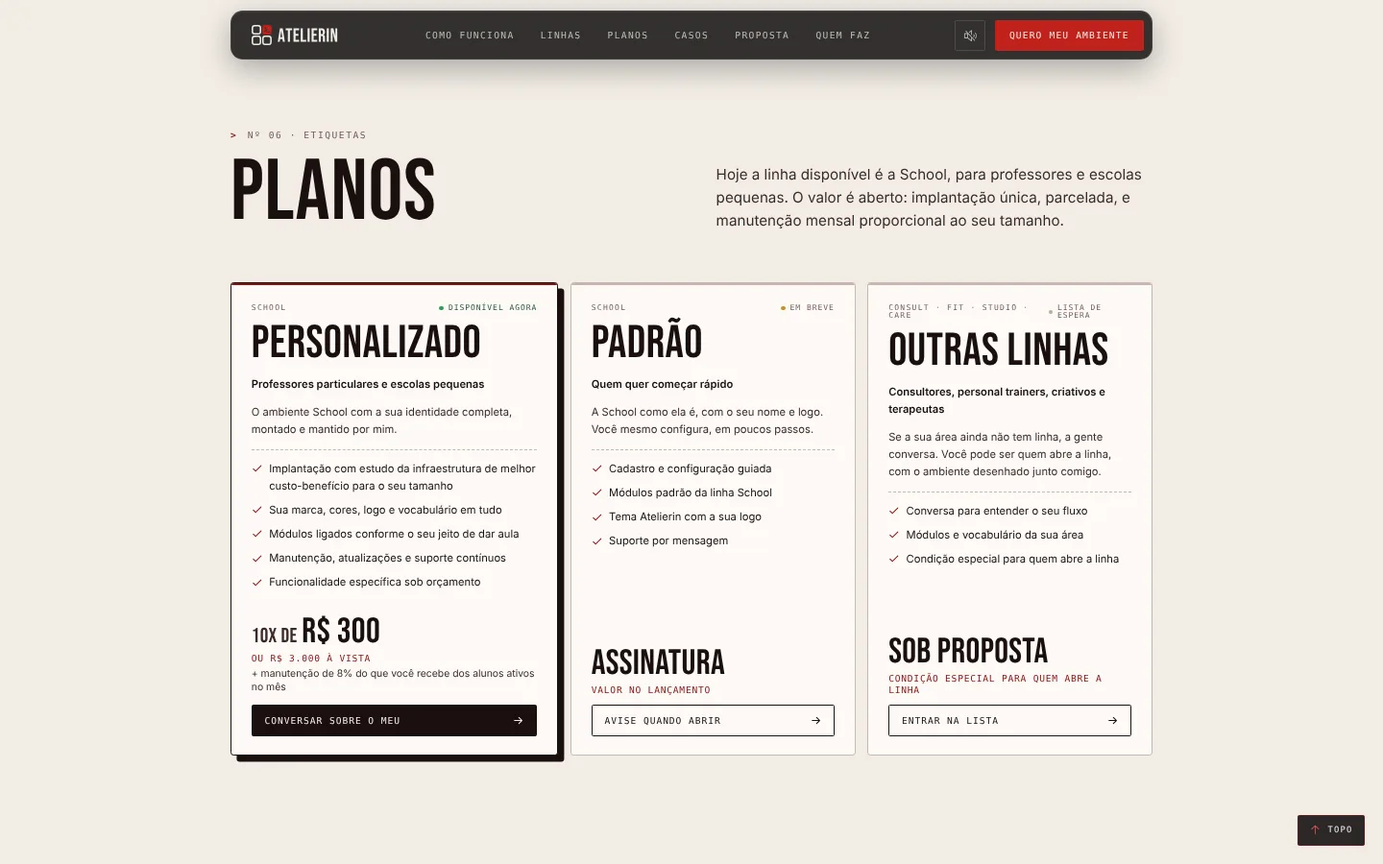
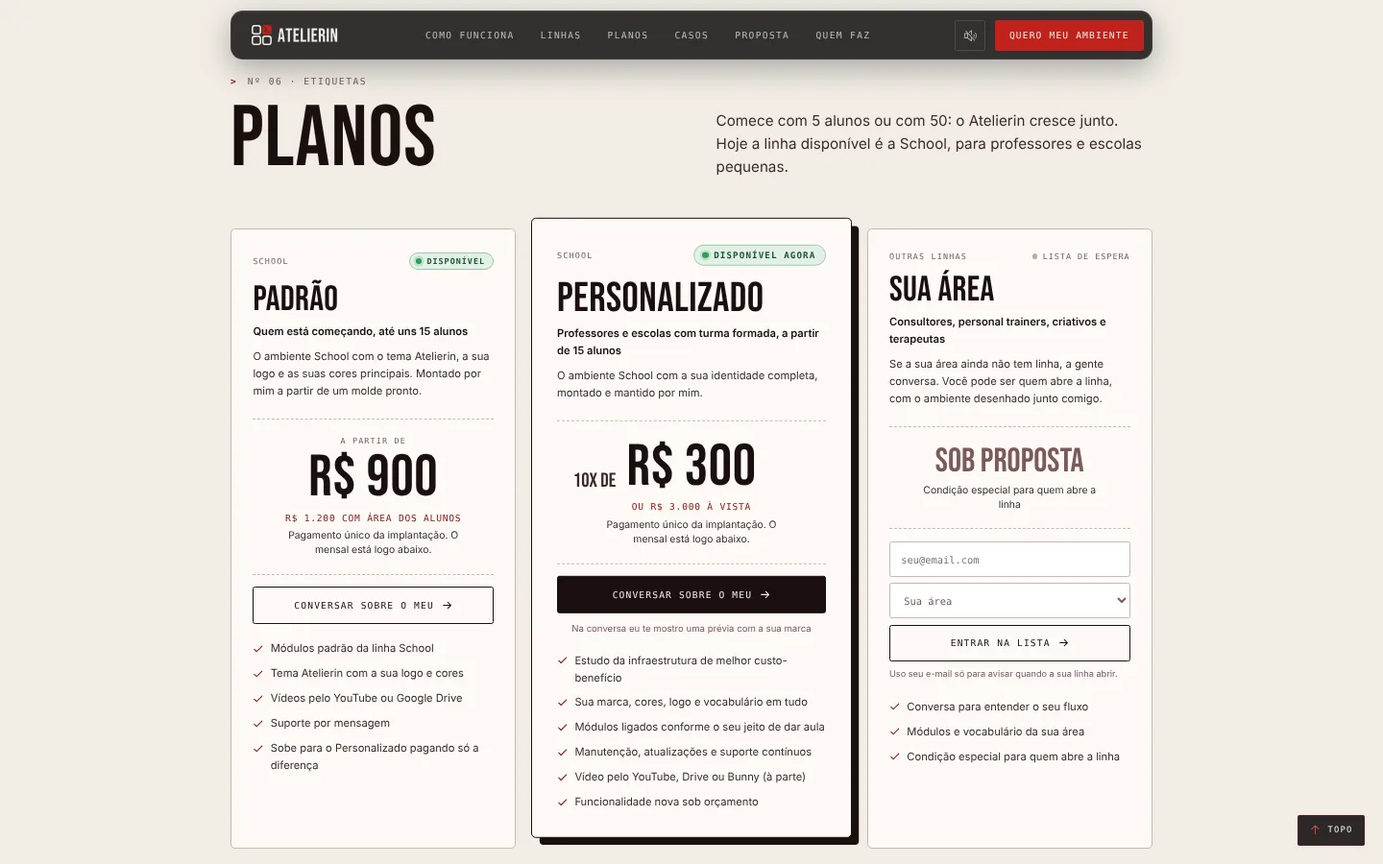
docs: document pricing model, waitlist setup and new screenshots

Changed region(s): [[0.1562, 0.0933, 0.8125, 0.9956]]

diff --git a/docs/decisoes/LP-ADR-005-preco-na-pagina.md b/docs/decisoes/LP-ADR-005-preco-na-pagina.md
@@ -5,15 +5,16 @@
 
 # LP-ADR-005 · Preço na página
 
-![status](https://img.shields.io/badge/status-proposta-080606) ![tipo](https://img.shields.io/badge/tipo-registro%20de%20decisão-1A1414) ![código](https://img.shields.io/badge/código-LP--ADR--005-C0211C)
+![status](https://img.shields.io/badge/status-aceita-080606) ![tipo](https://img.shields.io/badge/tipo-registro%20de%20decisão-1A1414) ![código](https://img.shields.io/badge/código-LP--ADR--005-C0211C)
 
 | Campo | Valor |
 |---|---|
 | Código | `LP-ADR-005` |
 | Data | quarta-feira, 11/11/2026 |
 | Tipo | Registro de decisão |
-| Status | Proposta |
+| Status | Aceita |
 | Decisão de | Samara Silvia |
+| Referências | `PRD-005` · proposta comercial do Maxwell (v1.5, a atualizar na v1.6) |
 | Redigido por | Samara Silvia |
 
 **Sumário**
@@ -28,50 +29,65 @@
 
 ### $ contexto
 
-A primeira versão da landing não mostrava preço ("a conversa vem antes"). Na negociação com o primeiro cliente, ficou claro que o preço ajuda a filtrar quem chega e evita a pergunta repetida. O modelo comercial está no `PRD-005`: **setup de R$ 3.000** (à vista ou 10x de R$ 300), **manutenção de 8%** sobre o que o profissional recebe dos alunos ativos no mês e **infraestrutura** rateada.
+A primeira versão da landing não mostrava preço. Na negociação com o primeiro cliente ficou claro que o preço filtra quem chega e evita a mesma pergunta em toda conversa. Ao colocar o preço, apareceram três problemas:
 
-Em 11/11/2026 o preço entrou na página. Ao revisar, a autora levantou dois conflitos que **ainda não estão resolvidos**, e por isso esta decisão está como **Proposta**.
+1. **"Só a implantação" não cabia no produto.** O Atelierin é um sistema da autora: o cliente usa um ambiente por licença, e o código, a base e o Supabase continuam dela. Sem manutenção, o cliente usaria o sistema sem pagar por ele.
+2. **"Assinatura" contradizia "um ambiente seu".** A palavra soava como "uma conta numa plataforma".
+3. **R$ 3.000 + 8% pesava demais para quem tem poucos alunos.** Com 5 alunos a R$ 250, o cliente gastaria 20% da receita por mês e 40% no primeiro ano.
 
-**Conflito 1: Assinatura × "um ambiente seu".** A proposta abre com "Um ambiente seu, não uma conta numa plataforma". O card **Padrão** fala em "Assinatura". A assinatura seria, na prática, o Atelier.sh como ele é hoje: o mesmo ambiente com o tema Atelierin, logo e nome do cliente, sem implantação sob medida. Lida ao lado da frase da proposta, "assinatura" soa como "uma conta numa plataforma".
+A simulação que levou à decisão:
 
-**Conflito 2: "Só a implantação" não fecha com o produto.** O comparativo "Com ou sem manutenção" oferece **só a implantação**, com hospedagem nas contas do cliente. Mas o Atelierin é **um sistema da autora**: o código, a base e o Supabase são dela, o cliente usa o serviço (PRD-005, seção Propriedade). Sem manutenção, o cliente continuaria usando o sistema sem pagar por ele. A opção só faria sentido entregando o código, o que o PRD-005 descarta.
+| Alunos × mensalidade | Plano | Por mês | 1º ano (com implantação) |
+|---|---|---|---|
+| 5 × R$ 250 | Padrão só você | R$ 155 | R$ 2.760 |
+| 8 × R$ 250 | Padrão com alunos | R$ 155 | R$ 3.060 |
+| 20 × R$ 300 | Personalizado | R$ 545 | R$ 9.540 |
+| 33 × R$ 300 (Maxwell) | Personalizado | R$ 857 | R$ 13.284 |
 
 ### $ decisão
 
-**Aceito (no ar desde 11/11/2026):**
+**Dois degraus, o mesmo ambiente:**
 
-1. O preço aparece no card **School Personalizado**: "10x de R$ 300" em destaque, "ou R$ 3.000 à vista" e "+ manutenção de 8% do que você recebe dos alunos ativos no mês".
-2. Explicação curta em Planos, completa na Proposta (slide de investimento) e nas Dúvidas.
-3. Nenhum texto diz "sem comissão": a manutenção é um percentual. O texto correto é "nenhuma taxa por transação" (o dinheiro dos alunos não passa pela plataforma).
-
-**Em aberto, para decidir antes de publicar:**
-
-| Ponto | Caminho sugerido | Alternativa |
+| | Padrão | Personalizado |
 |---|---|---|
-| "Ambiente seu" | Definir na página o que é "seu": **marca, endereço, alunos e dados**. O código e a estrutura são da Atelierin | Trocar a frase da proposta por "Um ambiente com a sua cara, não um perfil numa plataforma" |
-| Plano Padrão | Chamar de **"Pronto"** ou **"Padrão"**, sem a palavra assinatura, e explicar que é o mesmo ambiente com o tema Atelierin e a mesma manutenção percentual | Manter "assinatura" e mudar a frase da proposta |
-| Só a implantação | **Retirar** do comparativo e do slide. A manutenção faz parte de usar o sistema, porque o sistema é da Atelierin | Manter só como "entrega do código" sob proposta, com preço muito maior e licença fechada |
-| Manutenção mínima | Decidir se existe um mínimo mensal (o PRD-005 deixa em aberto) | Sem mínimo |
+| Para quem | Começando, até ~15 alunos | Turma formada, a partir de 15 alunos |
+| Implantação (uma vez) | R$ 900 só para a profissional · R$ 1.200 com área dos alunos | R$ 3.000 ou 10x de R$ 300 |
+| Manutenção (por mês) | 5% do recebido dos alunos, mínimo R$ 110 | 8% do recebido dos alunos, mínimo R$ 180 |
+| Infraestrutura (por mês) | R$ 45 fixo | R$ 65 fixo |
+| Vídeo | YouTube ou Google Drive | YouTube, Drive ou Bunny (à parte, ~R$ 49) |
+
+1. **Subir de plano** custa só a diferença da implantação.
+2. **O mínimo do Padrão** guarda a proporção do Personalizado: 180 × 5/8 = 112,50, arredondado para R$ 110.
+3. **A infraestrutura é uma taxa fixa**, revista uma vez por ano. O Supabase é da autora; as taxas de todos os ambientes pagam a conta. Ela fica negativa só até o terceiro cliente, coberta pela manutenção.
+4. **Licença de uso:** é do cliente a marca, o endereço, o conteúdo, os alunos e os dados; é da Atelierin o sistema, a hospedagem e o subdomínio. Quem quer o código só para si recebe outra proposta.
+5. **Prévia na conversa:** a profissional vê o ambiente com a sua marca antes de fechar. O protótipo completo faz parte da implantação.
+6. **Cancelamento** com 30 dias de aviso e exportação dos dados.
+7. **Na página:** o card mostra só a implantação; o mensal fica na tabela "Uma vez, e todo mês" e na calculadora. Nenhum texto diz "sem comissão" nem "assinatura".
+8. **Outras linhas:** lista de espera que grava de verdade (D1 + Resend).
 
 ### $ alternativas consideradas
 
 | Opção | Por que não |
 |---|---|
-| Continuar sem preço | Toda conversa começava pela pergunta do preço e atraía quem não podia pagar |
-| Só o preço à vista | R$ 3.000 assusta mais do que 10x de R$ 300 para professores autônomos |
-| Esconder a manutenção até a conversa | Pareceria pegadinha depois; o percentual precisa estar junto do preço |
+| Continuar sem preço | Toda conversa começava pela pergunta do preço |
+| Um único plano de R$ 3.000 + 8% | Caro demais para quem tem poucos alunos |
+| Padrão com mensal fixo tudo incluso (R$ 149) | A autora prefere manter a porcentagem, que acompanha o tamanho do cliente |
+| Infraestrutura rateada pelo número de clientes | Valor muda a cada cliente novo e não cabe numa calculadora |
+| Mínimo de R$ 60 no Padrão (1/3 de 180) | Não segue a proporção e deixa pouco para o suporte |
+| Opção "só a implantação" | O sistema é da Atelierin; usar sem manutenção seria usar sem pagar |
 
 ### $ consequências
 
-- A página e a proposta passam a ter preço; qualquer mudança precisa ser feita em `content.json > plans`, `faq.json` e `pages.json > proposal` ao mesmo tempo.
-- Enquanto os pontos em aberto não forem resolvidos, a página tem uma promessa ("só a implantação") que o produto não sustenta. **Não publicar antes de decidir.**
-- O preço é de fundador e vale para a linha School. Outras linhas seguem "sob proposta".
+- Valores ficam em quatro lugares: `content.json > plans.pricing` e `plans.rules`, `faq.json` e `pages.json > proposal` ([`LP-OPR-001`](../LP-OPR-001-operacao-e-conteudo.md)).
+- A proposta do Maxwell (v1.6) precisa trocar o rateio de R$ 71,42 pela taxa fixa de R$ 65 e formalizar a base dos 8%.
+- O `PRD-005` do produto precisa receber os dois degraus.
+- O preço é de fundador para o primeiro cliente; reajuste da tabela é anual, nunca por cliente.
 
 ### $ revisitar quando
 
-- A autora decidir os quatro pontos em aberto. Aí este ADR vira **Aceita** com a decisão final, ou um ADR novo o substitui.
-- O plano Padrão sair do "em breve".
-- O PRD-005 mudar de revisão.
+- Entrar o quarto ambiente: revisar se as taxas de infraestrutura ainda cobrem o Supabase com folga.
+- Abrir uma linha nova (Consult, Fit, Studio, Care): definir se segue os mesmos degraus.
+- Um cliente do Padrão passar de 15 alunos: conferir se o corte faz sentido na prática.
 
 ---
 

diff --git a/docs/LP-OPR-001-operacao-e-conteudo.md b/docs/LP-OPR-001-operacao-e-conteudo.md
@@ -26,10 +26,11 @@
 4. [Ajustar o hero](#-ajustar-o-hero)
 5. [Trocar imagens](#-trocar-imagens)
 6. [Contato](#-contato)
-7. [Publicar](#-publicar)
-8. [Antes de publicar](#-antes-de-publicar)
-9. [Conferência visual](#-conferência-visual)
-10. [Commits](#-commits)
+7. [Lista de espera](#-lista-de-espera)
+8. [Publicar](#-publicar)
+9. [Antes de publicar](#-antes-de-publicar)
+10. [Conferência visual](#-conferência-visual)
+11. [Commits](#-commits)
 
 ---
 
@@ -69,9 +70,10 @@ O mapa de qual chave vai para qual seção está no [`LP-ARQ-002`](LP-ARQ-002-ma
 | **Título com destaque** | `title` é a parte normal, `titleAccent` a parte em crimson. Vazio se não quiser destaque |
 | **Status das linhas** | Só `"Disponível"` ganha card maior e selo crimson. Use `"Em breve"` ou `"Em estudo"` nas outras |
 | **Ícones** | Nomes do Phosphor que o componente já importa. Nos retalhos, o mapa é `ICONS` em `sections/Problem.jsx`: importe o ícone novo lá e acrescente no mapa |
-| **Preço do plano** | `pricePre` (pequeno, antes), `price` (grande), `priceSub` (mono crimson), `priceExtra` (texto de apoio). Qualquer um pode ficar vazio |
+| **Preço do plano** | `priceLabel` (rótulo em cima), `pricePre` ("10x de", à esquerda do valor), `price` (grande), `priceSub` (mono crimson), `priceExtra` (apoio). `priceBig` no lugar de tudo para um texto como "Sob proposta" |
+| **Valores da calculadora** | `plans.pricing`: corte de alunos (`threshold`), implantação, porcentagem, mínimo e infraestrutura de cada plano. A tabela "Uma vez, e todo mês" fica em `plans.rules` e é texto: mudou um valor, mude nos dois |
 | **Links internos** | Comece com `/` (ex.: `/proposta`, `/#planos`). O roteador intercepta sozinho |
-| **Preços e manutenção** | Mudou valor, mude nos três lugares: `content.json > plans`, `faq.json` e `pages.json > proposal`. A decisão está no [`LP-ADR-005`](decisoes/LP-ADR-005-preco-na-pagina.md) |
+| **Preços e manutenção** | Mudou valor, mude em quatro lugares: `content.json > plans.pricing` e `plans.rules`, `faq.json` e `pages.json > proposal`. O modelo está no [`LP-ADR-005`](decisoes/LP-ADR-005-preco-na-pagina.md) |
 | **Texto** | Frases curtas, sem travessão, sem "sem comissão" (existe a manutenção de 8%) |
 
 > **Atenção ao JSON:** aspas duplas, vírgula entre itens e nenhuma vírgula depois do último. Um erro deixa a página em branco.
@@ -114,6 +116,42 @@ Converter para WebP com qualidade 80 a 90 (por exemplo no squoosh.app).
 | E-mail | `site.contactEmail` | Vazio. Enquanto vazio, o botão de e-mail não aparece |
 | Sons ligados ao abrir | `site.soundsDefault` | `false` |
 
+### $ lista de espera
+
+O formulário de Outras linhas grava o pedido num banco **Cloudflare D1** e manda um e-mail de confirmação pelo **Resend**. Quem faz isso é a função `functions/api/waitlist.js`, que roda no próprio Cloudflare Pages.
+
+```mermaid
+flowchart LR
+  F["Formulário<br/>e-mail + área"] -- "POST /api/waitlist" --> W["Pages Function<br/>waitlist.js"]
+  W --> D[("D1<br/>tabela leads")]
+  W -- "RESEND_API_KEY" --> R["Resend"]
+  R --> P["E-mail de confirmação<br/>para a pessoa"]
+  R -. "NOTIFY_TO" .-> S["Aviso para a Samara"]
+```
+
+**Configurar uma vez (no painel do Cloudflare):**
+
+1. **Workers e Pages > D1 > Criar banco** com o nome `atelierin-landing`. Na aba **Console**, cole o conteúdo de `db/schema.sql` e execute.
+2. No projeto da landing em **Pages > Configurações > Vinculações (Bindings)**, adicione um **Banco de dados D1** com o nome de variável `DB`, apontando para `atelierin-landing`.
+3. Em **Configurações > Variáveis e segredos**:
+   - `RESEND_API_KEY` (tipo **secreto**): a chave do Resend com permissão de envio
+   - `MAIL_FROM`: `Atelierin <contato@atelierin.com.br>`
+   - `NOTIFY_TO` (opcional): o seu e-mail, para receber um aviso a cada pedido novo
+4. Faça um novo deploy para as variáveis valerem.
+
+| Situação | O que acontece |
+|---|---|
+| Tudo configurado | Grava no D1, manda a confirmação e avisa você |
+| Sem `RESEND_API_KEY` | Grava no D1, nenhum e-mail sai |
+| Sem o banco (`DB`) ou rodando no `yarn dev` | A API responde erro e o formulário oferece o WhatsApp no lugar |
+| Mesmo e-mail duas vezes | Não duplica: atualiza a área |
+
+**Ver os pedidos:** D1 > `atelierin-landing` > Console: `SELECT * FROM leads ORDER BY created_at DESC;`. A coluna `status` (`novo`, `avisado`, `convertido`, `descadastrado`) fica pronta para o painel do Atelierin.
+
+**Avisar quando a linha abrir:** por enquanto, liste os e-mails da área no Console (`SELECT email FROM leads WHERE area LIKE 'Fit%' AND status = 'novo';`) e mande pelo Gmail como contato@. O botão de envio em massa entra junto com o painel.
+
+> A chave do Resend nunca vai para o código nem para o repositório: só como variável secreta no Cloudflare.
+
 ### $ publicar
 
 Cloudflare Pages, ligado ao repositório:
@@ -132,15 +170,15 @@ flowchart LR
   C -. "_redirects" .-> E["/proposta · /casos · /quem-faz<br/>abrem o index.html"]
 ```
 
-Não há variáveis de ambiente nem segredos: o site não fala com nenhum servidor.
+As únicas variáveis são as da lista de espera (seção acima). O resto do site não fala com servidor nenhum.
 
 ### $ antes de publicar
 
 - [x] WhatsApp preenchido
 - [ ] E-mail completo em `site.contactEmail`
-- [ ] Oferta de Assinatura e opção sem manutenção resolvidas ([`LP-ADR-005`](decisoes/LP-ADR-005-preco-na-pagina.md))
+- [ ] Lista de espera configurada (D1, `RESEND_API_KEY`, `MAIL_FROM`) e testada com um e-mail seu
 - [ ] Imagens reais no passo a passo
-- [ ] `og:image` 1200 × 630 no `index.html`
+- [x] `og:image` 1200 × 630 no `index.html` (`public/og-image.jpg`)
 - [ ] Textos revisados com o caso do Maxwell, com autorização dele
 - [ ] `yarn build` sem erro e conferência visual (abaixo)
 

diff --git a/docs/LP-ARQ-002-mapa-de-secoes.md b/docs/LP-ARQ-002-mapa-de-secoes.md
@@ -139,18 +139,21 @@ Cada seção abaixo traz: arquivo, bloco de texto, comportamento e o que observa
 
 <img src="../_assets/prints/planos.webp" alt="Planos" width="100%">
 
-<img src="../_assets/prints/com-ou-sem-manutencao.webp" alt="Com ou sem manutenção" width="100%">
+<img src="../_assets/prints/calculadora.webp" alt="Calculadora" width="100%">
 
 | Item | Valor |
 |---|---|
-| Arquivo | `sections/Plans.jsx` |
-| Texto | `content.plans` (`items`, `includes`, `pricingNote`, `modes`, `proposal`) |
+| Arquivo | `sections/Plans.jsx`, `components/PriceCalc.jsx`, `components/Waitlist.jsx` |
+| Texto | `content.plans` (`items`, `rules`, `calc`, `pricing`, `foot`) |
+| Servidor | `functions/api/waitlist.js` + `db/schema.sql` (lista de espera) |
 
-- Três cards: **School Personalizado** (disponível), **Padrão** (assinatura, em breve) e **Outras linhas** (sob proposta).
-- O preço tem três partes: `pricePre` + `price` em destaque ("10x de R$ 300"), `priceSub` em crimson ("ou R$ 3.000 à vista") e `priceExtra` (a manutenção de 8%).
-- Abaixo, o bloco **"Com ou sem manutenção"** compara as duas formas de contratar, linha a linha, e uma nota explica por que o valor muda entre ambientes.
-- A ponte no fim leva para `/proposta`.
-- Daqui para baixo a página **não tem mais** o efeito de cartão. O conteúdo e as decisões de preço estão em aberto no [`LP-ADR-005`](decisoes/LP-ADR-005-preco-na-pagina.md).
+- Três cards: **Padrão** (até ~15 alunos), **Personalizado** no centro, em destaque e um pouco mais alto, e **Sua área** (lista de espera das outras linhas).
+- Só o valor fica centralizado. O "10x de" encosta à esquerda, na linha de base do "R$ 300". No celular ele sobe para cima do valor.
+- "Disponível" é uma etiqueta verde; no Personalizado ela é maior.
+- O mensal **não** fica nos cards: a tabela **"Uma vez, e todo mês"** compara os dois planos e a **calculadora** faz a conta.
+- A calculadora indica o plano pelo número de alunos (`pricing.threshold`), soma manutenção (porcentagem ou mínimo), infraestrutura e Bunny (só no Personalizado), e mostra o mês, o peso na receita, o 1º ano e os seguintes.
+- O formulário da lista de espera envia e-mail e área para `/api/waitlist`. Se a API falhar, ele oferece o WhatsApp com a mensagem pronta.
+- Daqui para baixo a página **não tem** o efeito de cartão. O modelo de preço está no [`LP-ADR-005`](decisoes/LP-ADR-005-preco-na-pagina.md).
 
 ### $ dúvidas
 
@@ -161,7 +164,7 @@ Cada seção abaixo traz: arquivo, bloco de texto, comportamento e o que observa
 | Arquivo | `sections/Faq.jsx` |
 | Texto | `faq.json` (lista de `{ q, a }`) |
 
-Acordeão com `<details>`, em tema escuro, entre Planos e a ficha (ambos claros). Inclui as perguntas sobre preço do molde, implantação sem manutenção, como funcionam os 8% e por que o dinheiro dos alunos não passa pela plataforma.
+Acordeão com `<details>`, em tema escuro, entre Planos e a ficha (ambos claros). Inclui a prévia antes de fechar, o preço do molde, "quero um sistema só meu", quanto se paga por mês, para onde vai o dinheiro dos alunos e como subir de plano.
 
 ### $ ficha
 
@@ -193,7 +196,7 @@ A ilustração é o **fundo** do `.foot-body` (largura total, presa no topo). A 
 | Página | Arquivo | Estrutura |
 |---|---|---|
 | Quem faz | `pages/About.jsx` | Cabeçalho com nome, cargo e foto (`/samara.webp`, preto e branco), fatos, blocos de formação e experiência, ferramentas, projetos e links |
-| Proposta | `pages/Proposal.jsx` | Capa e oito slides de altura quase total: um ambiente seu, o que entra na implantação, depois que está no ar, o dinheiro vai direto para você, investimento (10x de R$ 300 + 8%), quem cuida depois, o que não está incluso e começa com uma conversa |
+| Proposta | `pages/Proposal.jsx` | Capa e nove slides: feito sob medida e mantido por mim (licença de uso), implantação (com a prévia), depois que está no ar, o dinheiro vai direto para você, dois degraus (Padrão e Personalizado), infraestrutura e vídeo, o que não está incluso, se quiser sair (30 dias e exportação) e começa com uma conversa |
 | Casos | `pages/Cases.jsx` | Lista de estudos de caso. O 01 é o Atelier.sh na ETE Cícero Dias |
 
 <table>

diff --git a/README.md b/README.md
@@ -49,7 +49,7 @@ O visual vem da identidade do Atelierin (noir e crimson, Bebas Neue, Inter e Jet
 | **Passo a passo** | Conversa, molde, prova, ajuste e no ar, numa trilha que se preenche com a rolagem. Cada passo tem uma animação própria |
 | **Linhas** | School, Consult, Fit, Studio e Care, com selo de status |
 | **Sob medida** | "A marca é sua": três estilos de login que se trocam com uma transição em círculo |
-| **Planos** | School Personalizado (10x de R$ 300 + 8%), Padrão e Outras linhas, com o comparativo "com ou sem manutenção" |
+| **Planos** | Padrão (a partir de R$ 900, 5%) e Personalizado (10x de R$ 300, 8%) disponíveis, lista de espera das outras linhas, tabela "Uma vez, e todo mês" e calculadora |
 | **Dúvidas** | Perguntas frequentes, inclusive sobre preço e manutenção |
 | **Ficha** (`#contato`) | "Vamos tirar as suas medidas": a ficha monta uma mensagem e abre o WhatsApp |
 | **Rodapé** | Texto sobre a ilustração carmesim |
@@ -80,11 +80,11 @@ O visual vem da identidade do Atelierin (noir e crimson, Bebas Neue, Inter e Jet
 </tr>
 <tr>
 <td width="50%"><img src="_assets/prints/planos.webp" alt="Planos"></td>
-<td width="50%"><img src="_assets/prints/com-ou-sem-manutencao.webp" alt="Com ou sem manutenção"></td>
+<td width="50%"><img src="_assets/prints/calculadora.webp" alt="Calculadora de planos"></td>
 </tr>
 <tr>
-<td align="center"><sub>Planos: 10x de R$ 300 em destaque</sub></td>
-<td align="center"><sub>Comparativo de manutenção</sub></td>
+<td align="center"><sub>Planos: dois degraus e a lista de espera</sub></td>
+<td align="center"><sub>Calculadora: quanto fica por mês e no ano</sub></td>
 </tr>
 <tr>
 <td width="50%"><img src="_assets/prints/ficha.webp" alt="Ficha de medidas"></td>
@@ -166,7 +166,9 @@ Os detalhes estão no [`LP-DSG-001`](docs/LP-DSG-001-sistema-visual.md). A ident
 │   ├── banners/          banners do README e dos docs (escuro e claro, WebP)
 │   ├── gerador/          presets dos banners para o gerador da marca
 │   └── prints/           capturas usadas no README e nos docs
+├── db/schema.sql         tabela da lista de espera (Cloudflare D1)
 ├── docs/                 documentação da landing (ver docs/README.md)
+├── functions/api/        Pages Functions (waitlist.js: grava no D1 e envia o e-mail)
 ├── public/
 │   ├── brand/            logos SVG (cópias de 03-DESIGN/01-MARCA/logos)
 │   ├── hero-desk.webp    foto do hero
@@ -207,9 +209,10 @@ O `public/_redirects` faz `/proposta`, `/casos` e `/quem-faz` abrirem direto, se
 
 - [x] WhatsApp em `site.whatsapp`
 - [ ] E-mail completo em `site.contactEmail`
-- [ ] Decidir a oferta de Assinatura e a opção sem manutenção ([`LP-ADR-005`](docs/decisoes/LP-ADR-005-preco-na-pagina.md))
+- [ ] Criar o banco D1 e as variáveis da lista de espera ([`LP-OPR-001`](docs/LP-OPR-001-operacao-e-conteudo.md#-lista-de-espera))
+- [ ] Cloudflare ativo, Email Routing do contato@ e domínio verificado no Resend
 - [ ] Imagens reais na trilha do passo a passo (hoje são ilustrações de exemplo)
-- [ ] Imagem de compartilhamento (`og:image`) 1200x630
+- [x] Imagem de compartilhamento (`og:image`) 1200x630
 - [ ] Revisar textos com o caso real do Maxwell, com autorização dele
 - [ ] Remover `src/components/BrandMorph.jsx`, que não é mais usado
 

diff --git a/docs/LP-ARQ-001-arquitetura.md b/docs/LP-ARQ-001-arquitetura.md
@@ -32,7 +32,7 @@
 
 ### $ em uma frase
 
-A landing é um site estático em **React 19 + Vite 7**, sem backend. Os textos ficam em **JSON** e passam por um único ponto de leitura (`lib/content.js`). Um **roteador próprio** troca entre quatro páginas. As animações são feitas com **hooks de rolagem** que escrevem variáveis CSS, e o CSS faz o resto.
+A landing é um site estático em **React 19 + Vite 7**. A única parte com servidor é a lista de espera: uma **Pages Function** que grava no **Cloudflare D1** e envia e-mail pelo **Resend**. Os textos ficam em **JSON** e passam por um único ponto de leitura (`lib/content.js`). Um **roteador próprio** troca entre quatro páginas. As animações são feitas com **hooks de rolagem** que escrevem variáveis CSS, e o CSS faz o resto.
 
 ### $ camadas
 
@@ -56,6 +56,8 @@ flowchart TB
   K["lib/ hooks<br/>useReveal · useExitProgress<br/>useStickyProgress · useScrollProgress<br/>useHeroLayout · sounds"]
   CSS["styles/<br/>tokens.css · global.css"]
   WA["WhatsApp<br/>wa.me com a mensagem pronta"]
+  API["functions/api/waitlist.js<br/>Pages Function"]
+  D1[("Cloudflare D1<br/>tabela leads")]
 
   J1 & J2 & J3 --> L --> S & P
   R --> H & P
@@ -63,6 +65,7 @@ flowchart TB
   S & C --> K
   K -- "variáveis CSS (--exit, --p)" --> CSS
   S -- "ficha, hero, CTA" --> WA
+  C -- "lista de espera" --> API --> D1
 ```
 
 | Camada | Responsabilidade | Não faz |
@@ -74,6 +77,7 @@ flowchart TB
 | `components/` | Peças reutilizáveis e animações maiores | Ler conteúdo direto (recebe por props, com exceção do Header) |
 | `lib/` hooks | Medir rolagem e escrever progresso em variáveis CSS | Mudar layout direto (quem desenha é o CSS) |
 | `styles/` | Tokens da marca e todo o layout | Ter valores soltos de cor fora dos tokens |
+| `functions/api/` | Receber o formulário da lista de espera, gravar no D1 e mandar o e-mail | Servir páginas |
 
 A regra que mais importa: **componente não tem texto escrito à mão**. Tudo vem de `content`, então trocar uma frase é editar JSON ([`LP-ADR-001`](decisoes/LP-ADR-001-conteudo-em-json.md)).
 

diff --git a/CHANGELOG.md b/CHANGELOG.md
@@ -5,8 +5,22 @@ O formato segue o [Keep a Changelog](https://keepachangelog.com/pt-BR/1.1.0/) e 
 
 ## [Não lançado]
 
-### Em aberto
-- **Oferta e manutenção:** a palavra "assinatura" no plano Padrão e a opção "só a implantação" conflitam com o modelo do produto. Decisão pendente no [`LP-ADR-005`](docs/decisoes/LP-ADR-005-preco-na-pagina.md). Não publicar antes de resolver
+### Adicionado
+- **Dois degraus de preço** ([`LP-ADR-005`](docs/decisoes/LP-ADR-005-preco-na-pagina.md)): Padrão (a partir de R$ 900, 5% com mínimo de R$ 110, infraestrutura R$ 45) e Personalizado (10x de R$ 300, 8% com mínimo de R$ 180, infraestrutura R$ 65)
+- **Calculadora** em Planos: alunos, mensalidade, acesso dos alunos e vídeo; mostra o plano indicado, o mês e o 1º ano
+- **Tabela "Uma vez, e todo mês"** comparando os dois planos
+- **Lista de espera funcionando**: `functions/api/waitlist.js` grava no Cloudflare D1 (`db/schema.sql`) e envia confirmação pelo Resend; sem API, oferece o WhatsApp
+- **Prévia na conversa** citada em Planos, no FAQ e na Proposta
+- Proposta: slides de licença de uso, infraestrutura e vídeo, e cancelamento com 30 dias
+- **Imagem de compartilhamento** (`og:image`) e metadados para redes sociais
+
+### Alterado
+- Planos: Personalizado no centro em destaque, "Disponível" em verde, só o valor centralizado com o "10x de" à esquerda
+- FAQ: "quero um sistema só meu", "quanto eu pago por mês", "consigo ver antes de fechar", "e se eu crescer"
+
+### Removido
+- Opção "só a implantação" e a palavra "assinatura"
+- Bloco "Com ou sem manutenção"
 
 ## [0.1.0] · 11/11/2026
 

diff --git a/docs/README.md b/docs/README.md
@@ -35,7 +35,7 @@
 | [`LP-ADR-002`](decisoes/LP-ADR-002-roteador-proprio.md) | Roteador próprio | Decisão | Aceita |
 | [`LP-ADR-003`](decisoes/LP-ADR-003-escala-de-80.md) | Escala de 80% no desktop | Decisão | Aceita |
 | [`LP-ADR-004`](decisoes/LP-ADR-004-troca-de-tema-em-cartao.md) | Troca de tema em cartão | Decisão | Aceita |
-| [`LP-ADR-005`](decisoes/LP-ADR-005-preco-na-pagina.md) | Preço na página | Decisão | **Proposta** |
+| [`LP-ADR-005`](decisoes/LP-ADR-005-preco-na-pagina.md) | Preço na página: dois degraus | Decisão | Aceita |
 
 ### $ ordem de leitura
 
